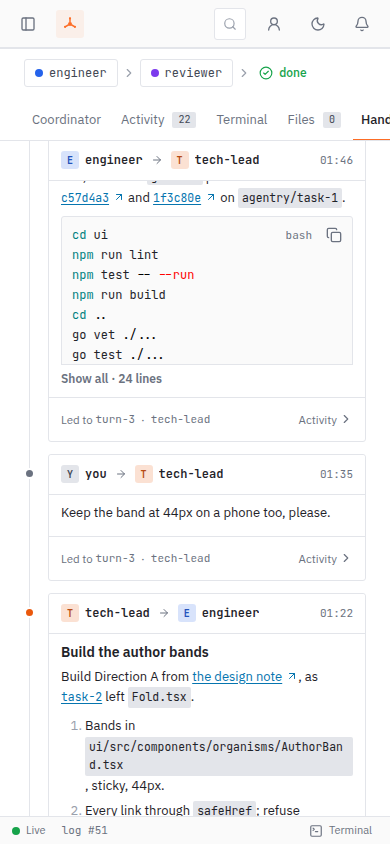
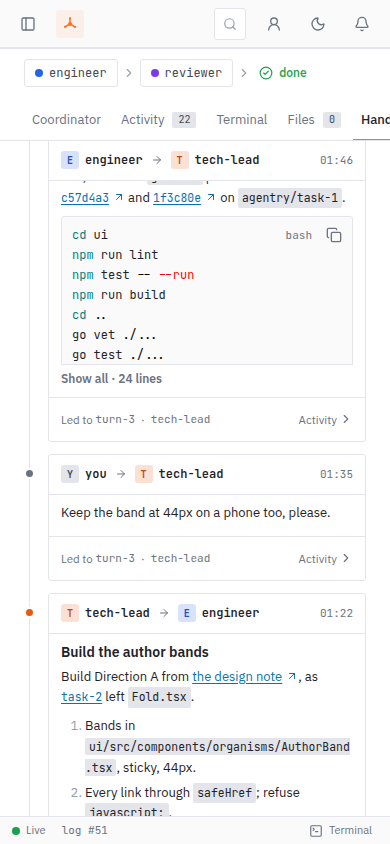
docs(design): re-take the shots with the inline path and the hh:mm rail, and add both under Fixed

Changed region(s): [[0.1846, 0.8626, 0.9231, 0.9858]]

diff --git a/docs/design/activity-readability.md b/docs/design/activity-readability.md
@@ -40,6 +40,8 @@ Fixed, and the shots above re-taken from a fresh demo server (the screenshots in
 - **A code box's language and Copy drew over a stuck Handoffs header** ([before](activity-readability/after/found/codebox-controls-over-handoff-header.png)). The corner has no z-index of its own now, so stuck headers and bands cover it in both tabs; the top bar and the phone drawer stay above the tab.
 - **Activity's rail times wrapped on a phone** (`01:09` over `AM`). Rail and Handoffs times are `{hh:mm}` as the copy deck says, five characters on the 24-hour clock, on one line.
 - **Small:** a link's underline stops at its label (the gap before ↗ is a margin); task ids, commits and one-word code such as a branch move to the next line whole instead of breaking at a hyphen, with no sideways scroll at 390; a fold that cuts through a code box ends with a 1px divider at the cut.
+- **A long path took a line of its own on a phone** (`ui/src/components/organisms/AuthorBand.tsx` as a full-width box, with `, sticky, 44px.` pushed under it). Only short one-word code and refs, up to 24 characters (task ids, commits, branches), move to the next line whole; longer code and links wrap inline as text does ([phone, scrolled](activity-readability/after/handoffs-phone-scrolled.png)).
+- **The desktop rail showed seconds and AM/PM** (`01:09:23 AM`). It shows `{hh:mm}` at every width now, as the copy deck says; the rail column is unchanged and the time still sits above the duration ([Activity](activity-readability/after/activity-light.png), [scrolled](activity-readability/after/activity-scrolled.png)).
 
 ## What changes
 
